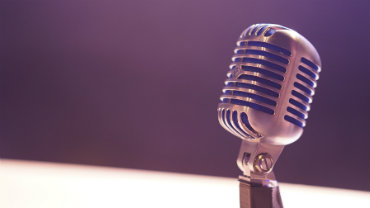
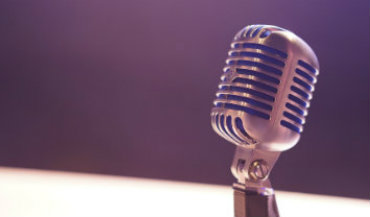
Background Image and Links

Changed region(s): [[0.4757, 0.0865, 0.8919, 1.0], [0.0, 0.75, 0.4757, 0.8365]]

diff --git a/index.html b/index.html
@@ -42,17 +42,17 @@
 						<div class="row">
 							<article class="col-6 col-12-xsmall work-item">
 								<a class="image fit thumb"><img src="images/thumbs/Sexism.jpg" alt="" /></a>
-								<h3>Sexism in Higher Education</h3>
+								<h3><a href = "https://medium.com/@ashleyl6/american-higher-education-to-female-professors-grow-a-pair-39e63875eb4">Sexism in Higher Education</h3></a>
 								<p>A blog post about the sexism female professors face in higher education.</p>
 							</article>
 							<article class="col-6 col-12-xsmall work-item">
 								<a class="image fit thumb"><img src="images/thumbs/Standardized.jpg" alt="" /></a>
-								<h3>Cost of Standardized Testing</h3>
+								<h3><a href="https://medium.com/@ashleyl6/standardized-testing-too-many-cents-to-make-sense-b2db40020771">Cost of Standardized Testing</h3></a>
 								<p>A blog post about the injustices of the costs of standardized testing.</p>
 							</article>
 							<article class="col-6 col-12-xsmall work-item">
 								<a class="image fit thumb"><img src="images/thumbs/Technology.jpg" alt="" /></a>
-								<h3>Using Technology in College Classes</h3>
+								<h3><a href="https://medium.com/@ashleyl6/technology-say-yes-to-students-using-tech-ac289f6522f6">Using Technology in College Classes</h3></a>
 								<p>A blog post about the advantages of letting students use technology in the classroom.</p>
 							</article>
 							<article class="col-6 col-12-xsmall work-item">
@@ -62,13 +62,13 @@
 							</article>
 							<article class="col-6 col-12-xsmall work-item">
 								<a class="image fit thumb"><img src="images/thumbs/Podcast.jpg" alt="" /></a>
-								<h3>Competition in High Schools</h3>
+								<h3><a href="https://soundcloud.com/user-182222810/competition-in-high-school">Competition in High Schools</h3></a>
 								<p>A podcast about the competition in American high schools, including discussion of standardized testing.</p>
 							</article>
 							<article class="col-6 col-12-xsmall work-item">
 								<a class="image fit thumb"><img src="images/thumbs/OutsideLink.jpg" alt="" /></a>
-								<h3>Forbes Article on Standardized Testing</h3>
-								<p>An article published on Forbes' website that discusses the efficiency of schools in preparing students for standardized testing.</p>
+								<h3><a href="https://education.costhelper.com/sat-prep.html"> Article: Cost of SAT Prep</h3></a>
+								<p>An article that explicitly states the cost of SAT prep at each stage of the process.</p>
 							</article>
 						</div>
 						<ul class="actions">
@@ -400,10 +400,10 @@ print 'It took ' + i + ' iterations to sort the deck.';</code></pre>
 			<footer id="footer">
 				<div class="inner">
 					<ul class="icons">
-						<li><a href="#" class="icon fa-twitter"><span class="label">Twitter</span></a></li>
-						<li><a href="#" class="icon fa-facebook"><span class="label">Facebook</span></a></li>
-						<li><a href="#" class="icon fa-instagram"><span class="label">Instagram</span></a></li>
-						<li><a href="#" class="icon fa-envelope-o"><span class="label">Email</span></a></li>
+						<li><a href="https://twitter.com/ashleyel26" class="icon fa-twitter"><span class="label">Twitter</span></a></li>
+						<li><a href="https://www.facebook.com/ashley.long.50999405" class="icon fa-facebook"><span class="label">Facebook</span></a></li>
+						<li><a href="https://www.instagram.com/ashley.long26/" class="icon fa-instagram"><span class="label">Instagram</span></a></li>
+						<li><a href="mailto:ashleyL6@vt.edu" class="icon fa-envelope-o"><span class="label">Email</span></a></li>
 					</ul>
 					<ul class="copyright">
 						<li>&copy; Untitled</li><li>Design: <a href="http://html5up.net">HTML5 UP</a></li>

diff --git a/assets/css/main.css b/assets/css/main.css
@@ -2572,7 +2572,7 @@ input, select, textarea {
 		justify-content: space-between;
 		background-color: #1f1815;
 		background-attachment: scroll,								scroll;
-		background-image: url("images/overlay.png"), url("../../images/bg.jpg");
+		background-image: url("images/overlay.png"), url("../../images/PylonBG.jpg");
 		background-position: top left,							top left;
 		background-repeat: repeat,								no-repeat;
 		background-size: auto,								150%;
